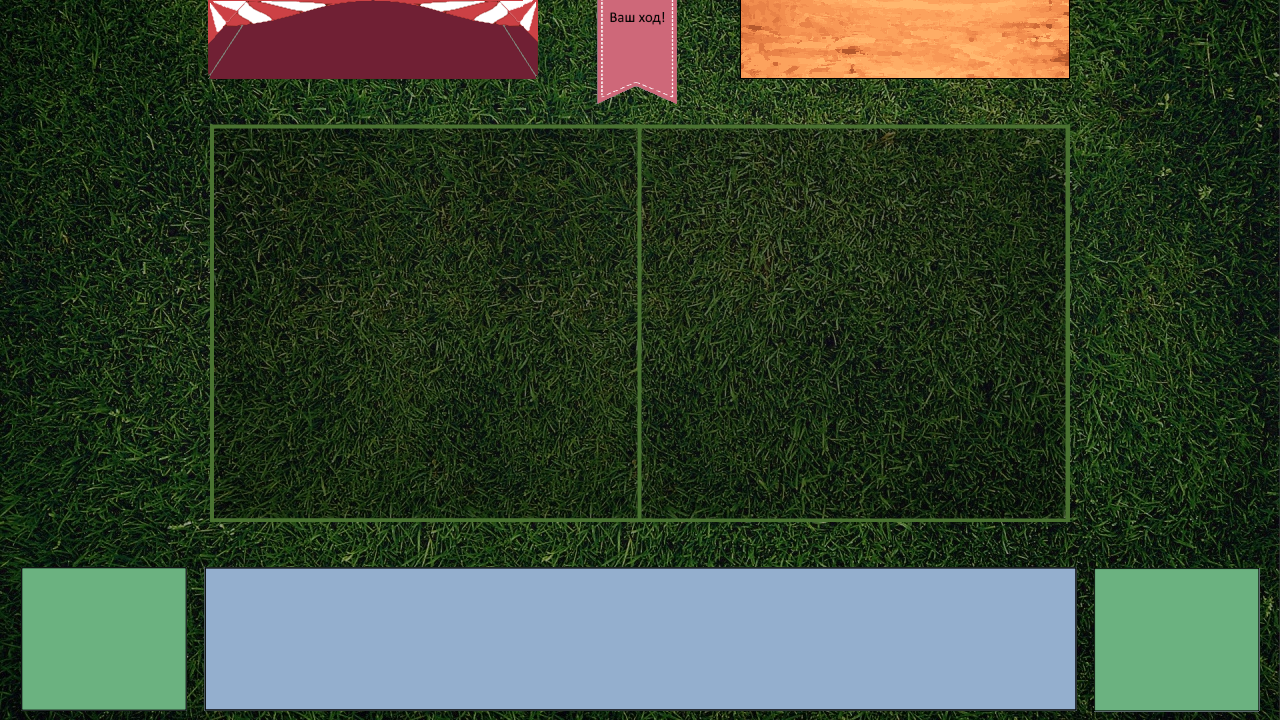
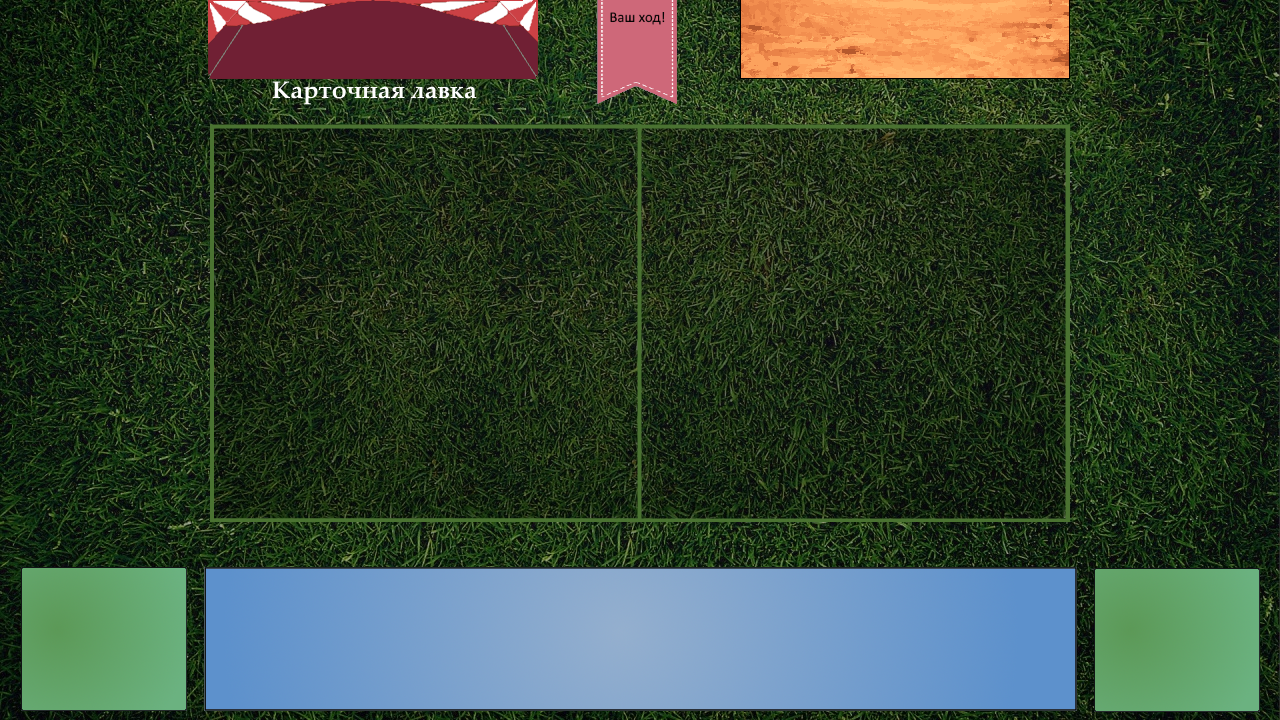
Немного поменял внешний вид игры

diff --git a/Main.py b/Main.py
@@ -215,8 +215,8 @@ class Game(State):
         win.blit(self.shop.bronze_button.sprite.image, (305, 32))
         win.blit(self.shop.silver_button.sprite.image, (377, 32))
         win.blit(self.end_turn_button.sprite.image, (750, 12))
-        win.blit(self.delete_card_button.sprite.image, (self.delete_card_button.sprite.x, \
-                                                self.delete_card_button.sprite.y))
+        win.blit(self.delete_card_button.sprite.image, (self.delete_card_button.sprite.x,
+                                                        self.delete_card_button.sprite.y))
 
         self.player.tower.showTower(win)
         self.computer.tower.showTower(win)
@@ -238,14 +238,14 @@ class Game(State):
         player1_name = font.render('Ваша башня', True, white)
         player1_hp = font.render('Прочность: ' + str(self.player.tower.height), True, white)
         player1_gold = font.render('Золото: ' + str(self.player.player_gold), True, yellow)
-        player1_cards_amount = font.render(f'Карты: {len(self.player.cards)}/7', True, yellow)
-        player1_amount_of_used_cards1 = font.render('Использовано', True, yellow)
-        player1_amount_of_used_cards2 = font.render(f'    карт: {self.player.turn_cards_played}/2', True, yellow)
+        player1_cards_amount = font.render(f'Карты: {len(self.player.cards)}/7', True, white)
+        player1_amount_of_used_cards1 = font.render('Использовано', True, white)
+        player1_amount_of_used_cards2 = font.render(f'карт: {self.player.turn_cards_played}/2', True, white)
         win.blit(player1_name, (35, 580))
         win.blit(player1_hp, (36, 600))
-        win.blit(player1_amount_of_used_cards1, (36, 620))
-        win.blit(player1_amount_of_used_cards2, (36, 640))
-        win.blit(player1_gold, (36, 660))
+        win.blit(player1_gold, (36, 620))
+        win.blit(player1_amount_of_used_cards1, (36, 640))
+        win.blit(player1_amount_of_used_cards2, (36, 660))
         win.blit(player1_cards_amount, (36, 680))
 
         player1_timer_info = font.render(f'{self.timer.getSeconds()}', True, white)
